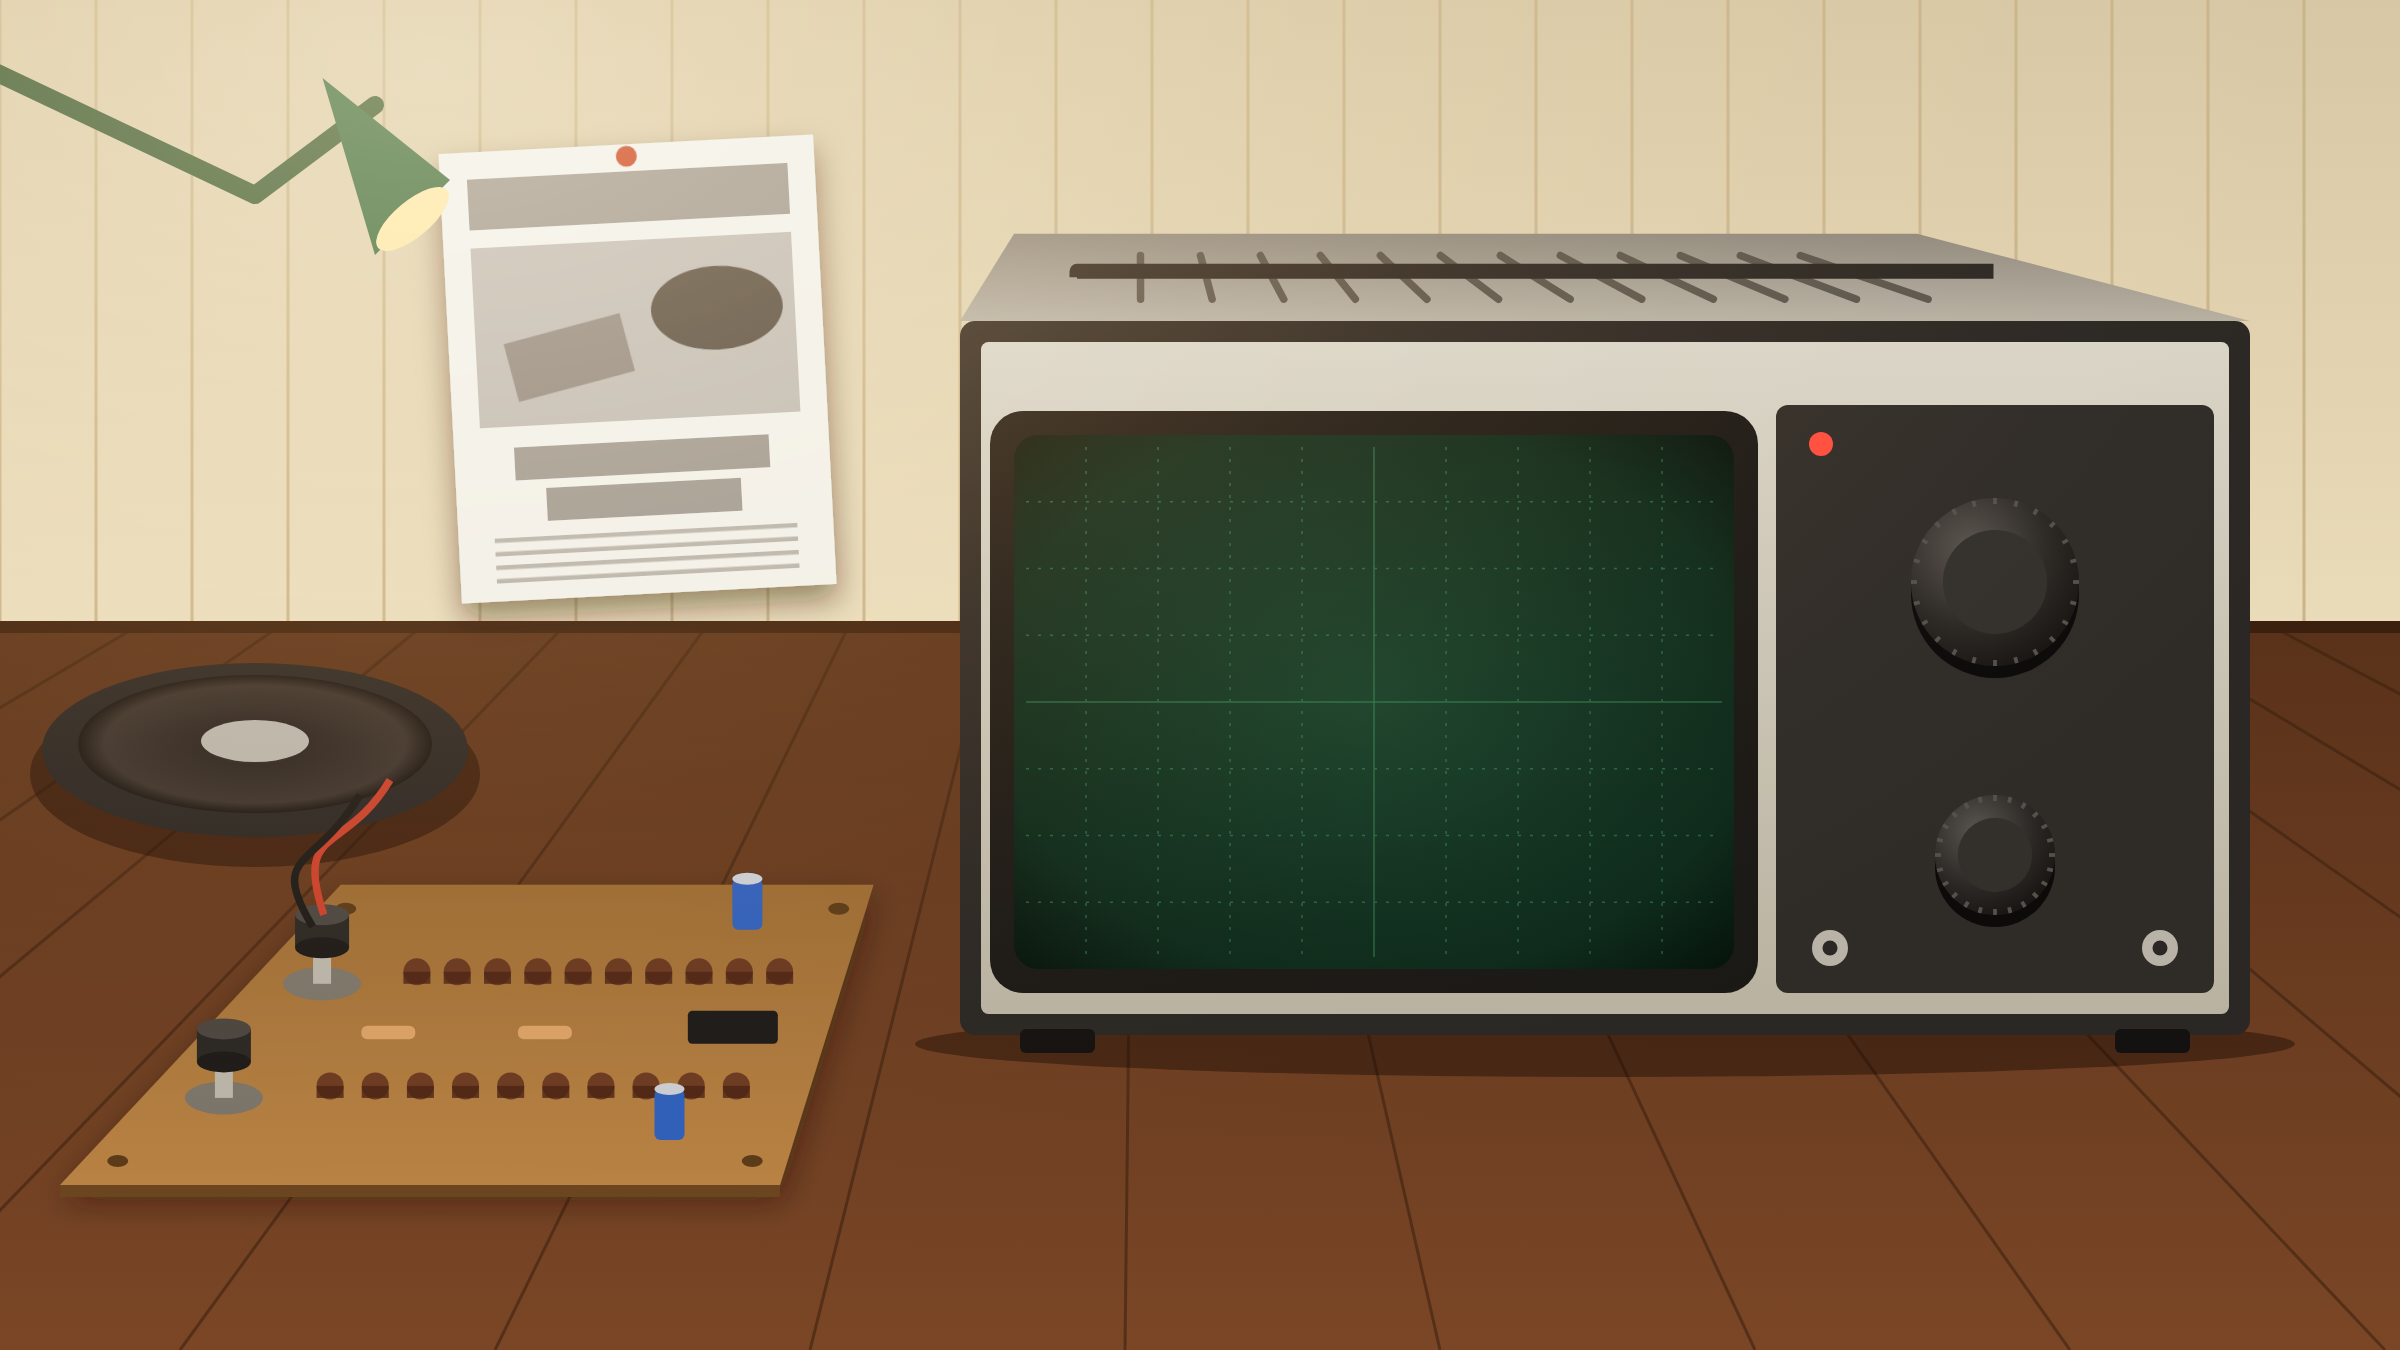
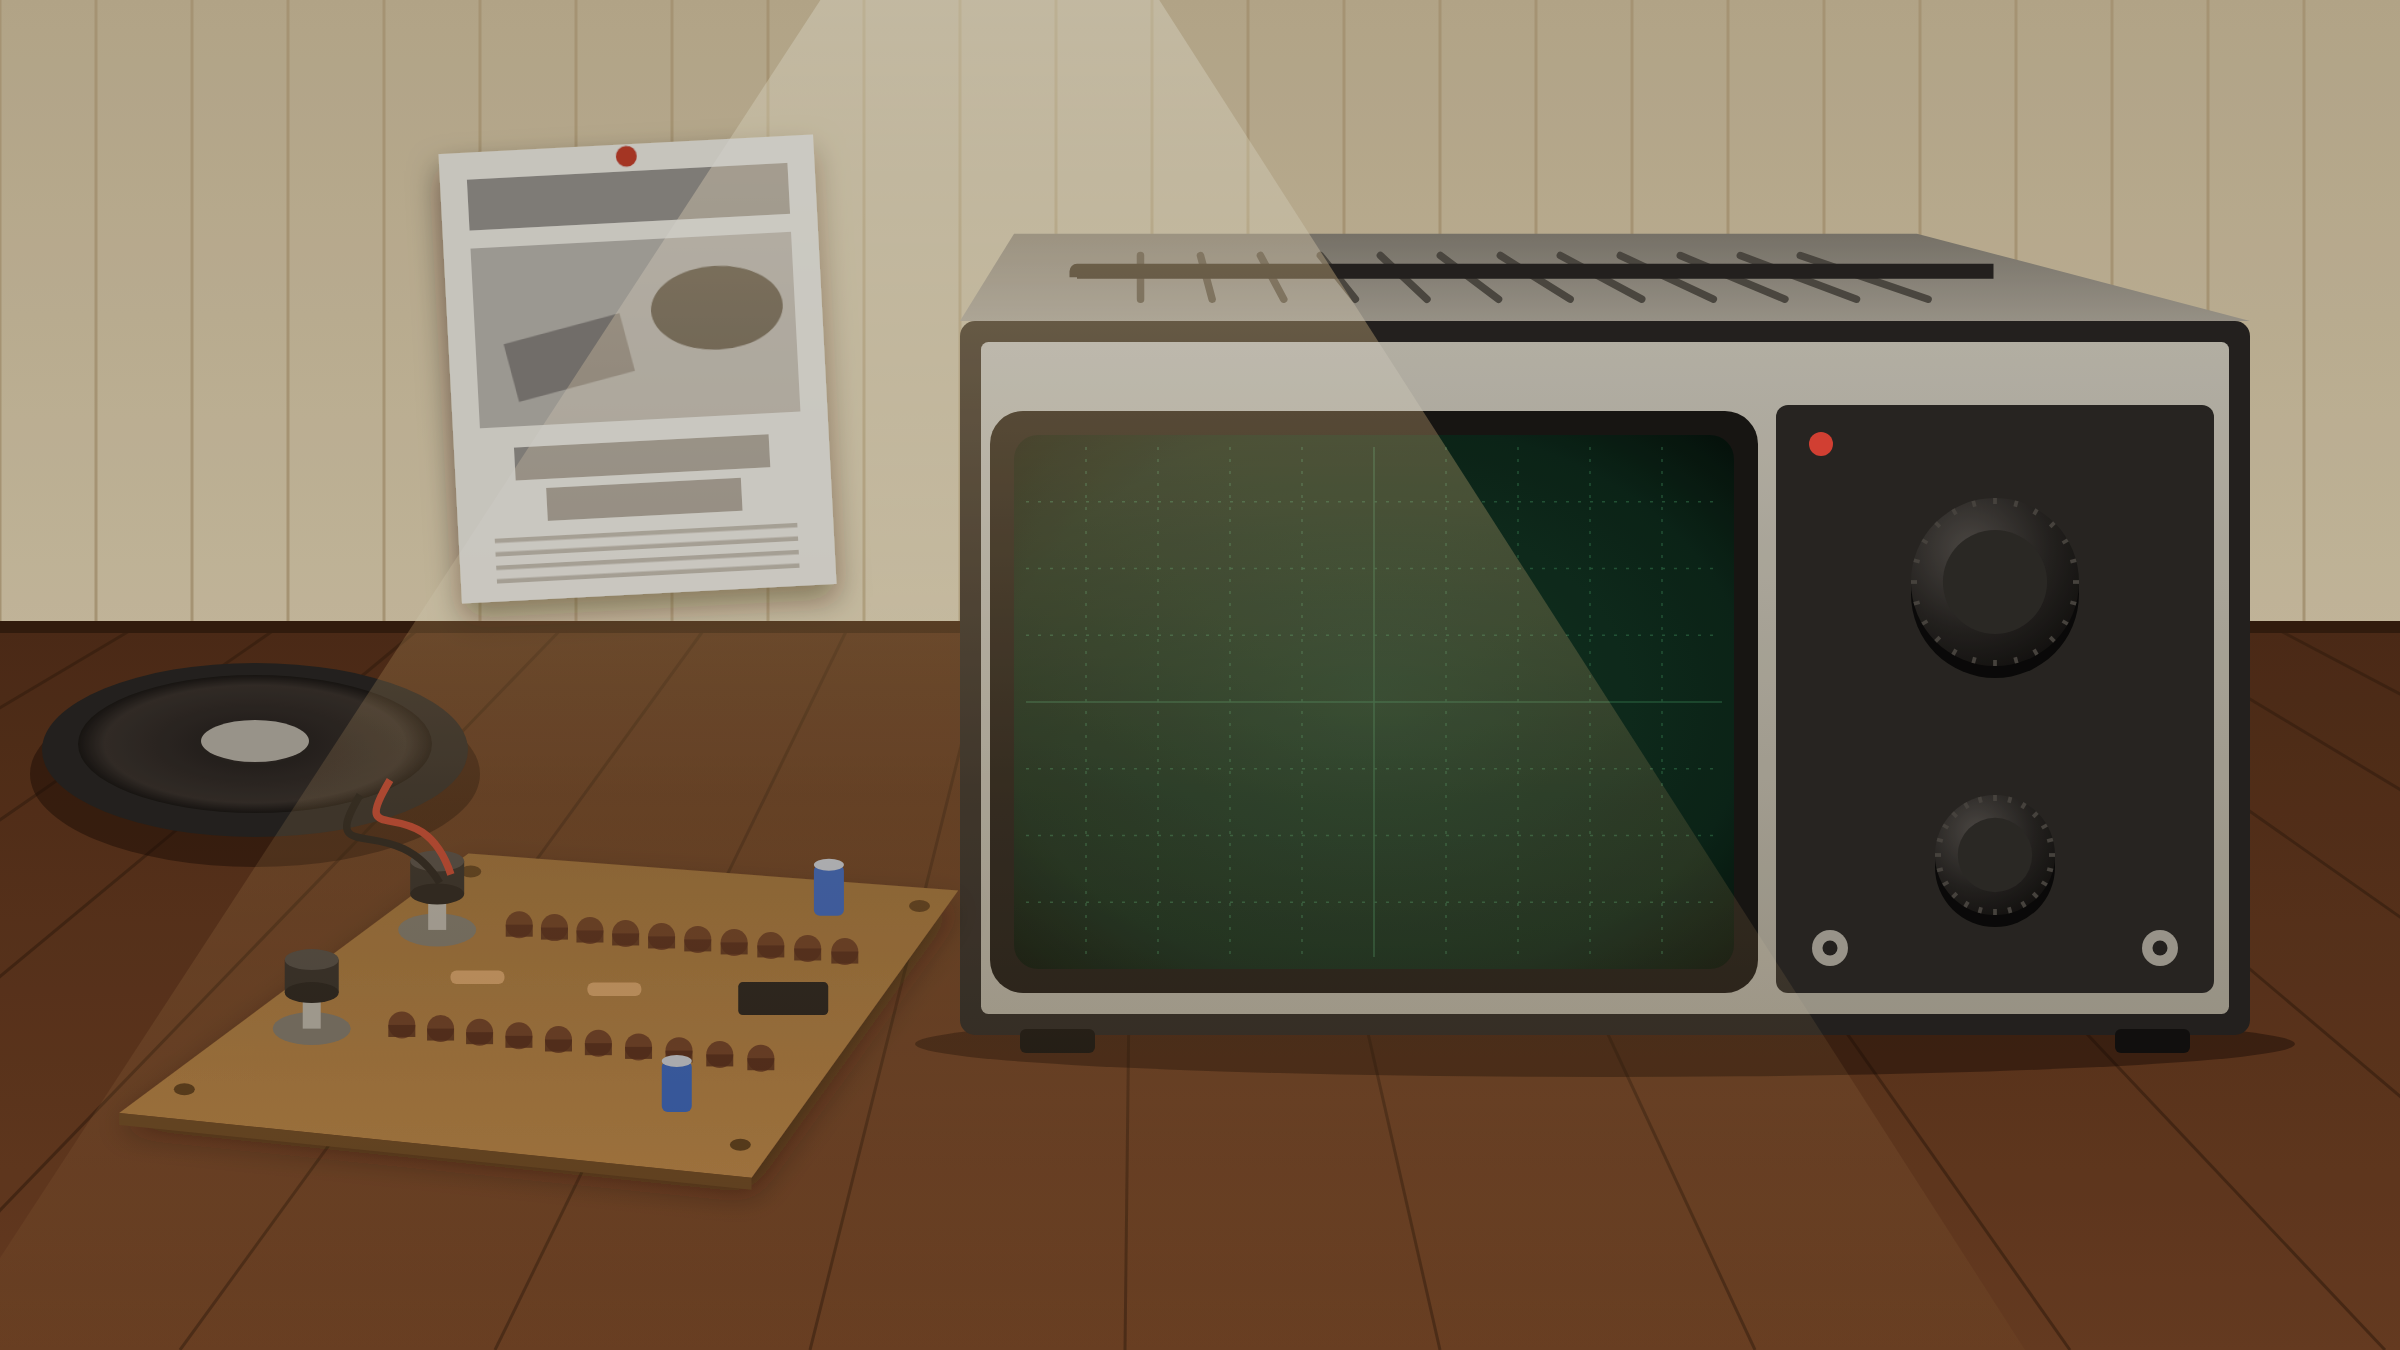
Fogonazo: S-08a con luz cónica y la placa girada sobre el banco
Claude-Session: https://claude.ai/code/session_01PFQexgjEU5jPtzGZYg7mEi

diff --git a/herramientas/sala/escena-instrumento-perspectiva.html b/herramientas/sala/escena-instrumento-perspectiva.html
@@ -33,6 +33,7 @@ add(`<defs>
   <radialGradient id="crt" cx=".5" cy=".5" r=".7"><stop offset="0" stop-color="#16402a"/><stop offset=".75" stop-color="#0d2a1b"/><stop offset="1" stop-color="#06140c"/></radialGradient>
   <radialGradient id="knob" cx=".35" cy=".3" r=".8"><stop offset="0" stop-color="#5a5550"/><stop offset=".6" stop-color="#2a2724"/><stop offset="1" stop-color="#141210"/></radialGradient>
   <radialGradient id="cone" cx=".5" cy=".5" r=".5"><stop offset="0" stop-color="#5b5048"/><stop offset=".3" stop-color="#2c2622"/><stop offset=".85" stop-color="#3b332d"/><stop offset="1" stop-color="#1c1815"/></radialGradient>
+  <linearGradient id="coneLight" x1="0" y1="0" x2="0" y2="1"><stop offset="0" stop-color="#ffe2a8" stop-opacity=".55"/><stop offset=".6" stop-color="#ffc070" stop-opacity=".16"/><stop offset="1" stop-color="#ffb060" stop-opacity=".04"/></linearGradient>
   <radialGradient id="lamp" cx=".18" cy=".05" r=".9"><stop offset="0" stop-color="#ffd9a0" stop-opacity=".45"/><stop offset=".5" stop-color="#ffb060" stop-opacity=".12"/><stop offset="1" stop-color="#000" stop-opacity="0"/></radialGradient>
   <filter id="sh" x="-20%" y="-20%" width="140%" height="160%"><feDropShadow dx="0" dy="10" stdDeviation="10" flood-color="#1a0c04" flood-opacity=".5"/></filter>
   <filter id="glow" x="-30%" y="-60%" width="160%" height="220%"><feGaussianBlur stdDeviation="2" result="b"/><feMerge><feMergeNode in="b"/><feMergeNode in="SourceGraphic"/></feMerge></filter>
@@ -58,10 +59,8 @@ add(`<g transform="rotate(-3 ${mx + mw / 2} ${my + mh / 2})" filter="url(#sh)"><
   ${[0, 1, 2, 3].map(i => `<rect x="${mx + 24}" y="${my + 258 + i * 9}" width="${mw - 48}" height="3" fill="#b5b1a9"/>`).join('')}
   <circle cx="${mx + mw / 2}" cy="${my + 8}" r="7" fill="#c8402c"/></g>`);
 
-// ---------- lamp from the top-left ----------
-add(`<path d="M-20,40 L170,130 L250,70" stroke="#2f5a3a" stroke-width="12" fill="none" stroke-linecap="round" stroke-linejoin="round"/>
-  <path d="M215,52 L300,120 L250,170 Z" fill="#2f6b45"/><ellipse cx="275" cy="146" rx="30" ry="12" fill="#ffe6a8" transform="rotate(-40 275 146)"/>`);
-
+// ---------- light: a warm cone from an unseen lamp above ----------
+const cone = `<polygon points="560,-20 760,-20 1350,${H} -40,${H}" fill="url(#coneLight)" style="mix-blend-mode:screen"/>`;
 // ---------- oscilloscope: front face facing the camera, top face in perspective ----------
 const F = { x0: 640, x1: 1500, y0: 214, y1: 690 }, k = .3;
 const tl = [F.x0, F.y0], tr = [F.x1, F.y0], btl = toVP(tl, k), btr = toVP(tr, k);
@@ -114,8 +113,10 @@ if (!CLEAN) {
 }
 
 // ---------- pertinax board lying on the bench, with the speaker beside it ----------
-const F1 = [40, 790], F2 = [520, 790], t = .26, B1 = toVP(F1, t), B2 = toVP(F2, t);
-const P = (u, v) => lerp(lerp(F1, F2, v), lerp(B1, B2, v), u);  // u: depth 0 front .. 1 back, v: 0 left .. 1 right
+const G = (X, Z) => lerp([X, 800], VP, Z / (Z + 1500));         // ground plane: X across, Z away from the camera
+const ROT = -11 * Math.PI / 180, GC = [310, 330], GW = 480, GD = 520;  // board centre, width and depth (ground units)
+const P = (u, v) => { const lx = (v - .5) * GW, lz = (u - .5) * GD; return G(GC[0] + lx * Math.cos(ROT) - lz * Math.sin(ROT), GC[1] + lx * Math.sin(ROT) + lz * Math.cos(ROT)); };
+const F1 = P(0, 0), F2 = P(0, 1), B1 = P(1, 0), B2 = P(1, 1);
 // speaker lying face up behind the board, to the left
 const sc = [170, 500];
 add(`<ellipse cx="${sc[0]}" cy="${sc[1] + 16}" rx="150" ry="62" fill="#1a0c04" opacity=".45"/><ellipse cx="${sc[0]}" cy="${sc[1]}" rx="142" ry="58" fill="#2a2724"/><ellipse cx="${sc[0]}" cy="${sc[1] - 4}" rx="118" ry="46" fill="url(#cone)"/><ellipse cx="${sc[0]}" cy="${sc[1] - 6}" rx="36" ry="14" fill="#b9b3a7"/>`);
@@ -143,7 +144,8 @@ const w0 = P(.9, .02), w1 = P(.86, .02);
 add(`<path d="M${w0[0]},${w0[1]} C${w0[0] - 20},${w0[1] - 60} ${sc[0] + 60},${sc[1] + 70} ${sc[0] + 90},${sc[1] + 20}" stroke="#c8402c" stroke-width="5" fill="none"/><path d="M${w1[0]},${w1[1]} C${w1[0] - 30},${w1[1] - 50} ${sc[0] + 40},${sc[1] + 80} ${sc[0] + 70},${sc[1] + 30}" stroke="#1c1a18" stroke-width="5" fill="none"/>`);
 
 // ---------- lamp light ----------
-add(`<rect width="${W}" height="${H}" fill="url(#lamp)" style="mix-blend-mode:screen"/>`);
+add(cone);
+add(`<rect width="${W}" height="${H}" fill="#000" opacity=".18" style="mix-blend-mode:multiply"/>`);
 
 // ---------- the phone's crop (20:9) and the back label, only in the annotated version ----------
 if (!CLEAN) {
